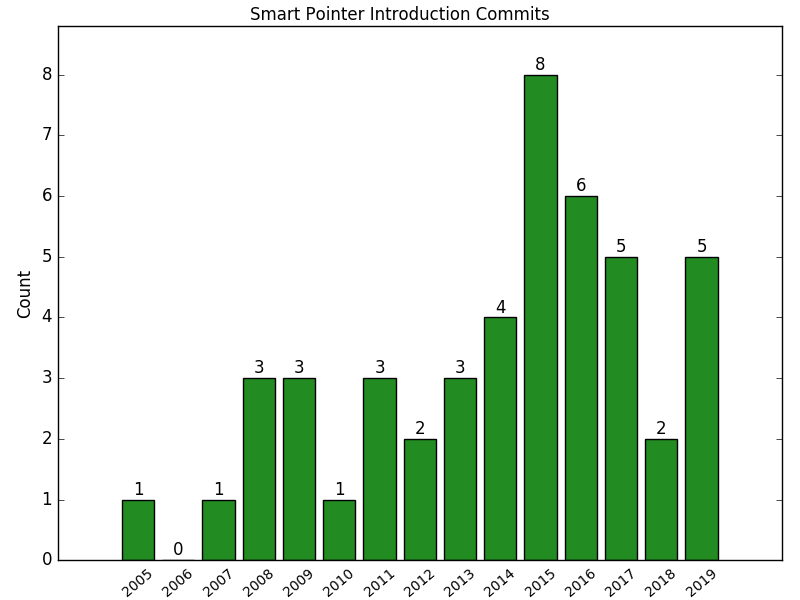
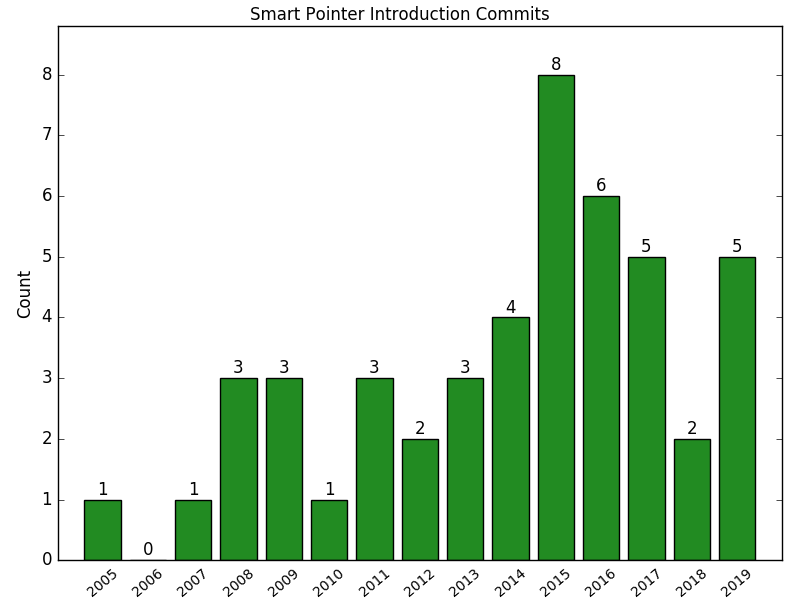
Added introduction named casts, graph script.

Changed region(s): [[0.5625, 0.09, 0.9688, 1.0], [0.0938, 0.6, 0.5625, 1.0]]

diff --git a/infra/src/graph_generator.py b/infra/src/graph_generator.py
@@ -84,6 +84,7 @@ class GraphGenerator:
       # Set y-lim based on max bar value.
       axes = plt.gca()
       axes.set_ylim([0, max_bar * 1.1])
+      axes.margins(0.04, 0)
 
       if self._slant:
          # Slant the x-axis labels.
